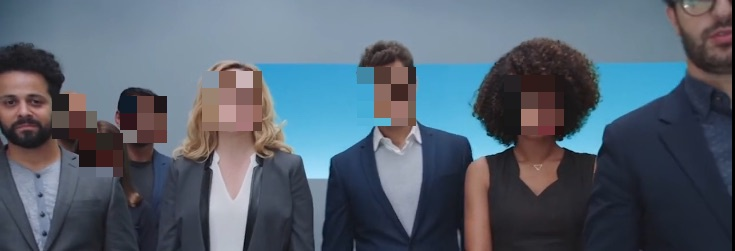
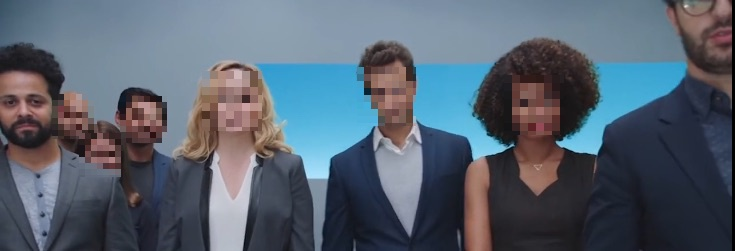
- minor revamp of pixelate code for better sizing

diff --git a/face_privacy_filter/transform_region.py b/face_privacy_filter/transform_region.py
@@ -81,9 +81,8 @@ class RegionTransform(BaseEstimator, ClassifierMixin):
                 x_max = min(r[0]+r[2], img.shape[1])
                 y_max = min(r[1]+r[3], img.shape[0])
                 if self.transform_mode=="pixelate":
-                    block_size = round(max(img.shape[0], img.shape[2])/15)
                     img[r[1]:y_max, r[0]:x_max] = \
-                        RegionTransform.pixelate_image(img[r[1]:y_max, r[0]:x_max], block_size)
+                        RegionTransform.pixelate_image(img[r[1]:y_max, r[0]:x_max])
 
             # for now, we hard code to jpg output; TODO: add more encoding output (or try to match source?)
             img_binary = cv2.imencode(".jpg", img)[1].tostring()
@@ -131,9 +130,11 @@ class RegionTransform(BaseEstimator, ClassifierMixin):
 
     # http://www.jeffreythompson.org/blog/2012/02/18/pixelate-and-posterize-in-processing/
     @staticmethod
-    def pixelate_image(img, blockSize):
+    def pixelate_image(img, blockSize=None):
         if not img.shape[0] or not img.shape[1]:
             return img
+        if blockSize is None:
+            blockSize = round(max(img.shape[0], img.shape[2]) / 8)
         ratio = (img.shape[1] / img.shape[0]) if img.shape[0] < img.shape[1] else (img.shape[0] / img.shape[1])
         blockHeight = round(blockSize * ratio)  # so that we cover all image
         for x in range(0, img.shape[0], blockSize):

diff --git a/README.md b/README.md
@@ -78,9 +78,9 @@ launched locally.  Afterwards, the sample application found in
 [web_demo](web_demo) uses a `localhost` service to classify
 and visualize the results of image classification.
 
-* [DiCaprio celebrity face sample](web_demo/images/face_DiCaprio.jpg) [wikimedia source](https://en.wikipedia.org/wiki/Celebrity#/media/File:Leonardo_DiCaprio_visited_Goddard_Saturday_to_discuss_Earth_science_with_Piers_Sellers_(26105091624)_cropped.jpg)
-* [Schwarzenegger celebrity face sample](web_demo/images/face_Schwarzenegger.jpg) [wikimedia source](https://upload.wikimedia.org/wikipedia/commons/thumb/0/0f/A._Schwarzenegger.jpg/220px-A._Schwarzenegger.jpg)
-* [Commercial example](web_demo/images/commercial.jpg) [youtube source](https://www.youtube.com/watch?v=34KfCNapnUg)
+* [DiCaprio celebrity face sample](web_demo/images/face_DiCaprio.jpg) ([wikimedia source](https://en.wikipedia.org/wiki/Celebrity#/media/File:Leonardo_DiCaprio_visited_Goddard_Saturday_to_discuss_Earth_science_with_Piers_Sellers_(26105091624)_cropped.jpg))
+* [Schwarzenegger celebrity face sample](web_demo/images/face_Schwarzenegger.jpg) ([wikimedia source](https://upload.wikimedia.org/wikipedia/commons/thumb/0/0f/A._Schwarzenegger.jpg/220px-A._Schwarzenegger.jpg))
+* [Commercial example](web_demo/images/commercial.jpg) ([youtube source](https://www.youtube.com/watch?v=34KfCNapnUg))
 
 
 <table width='100%'>
